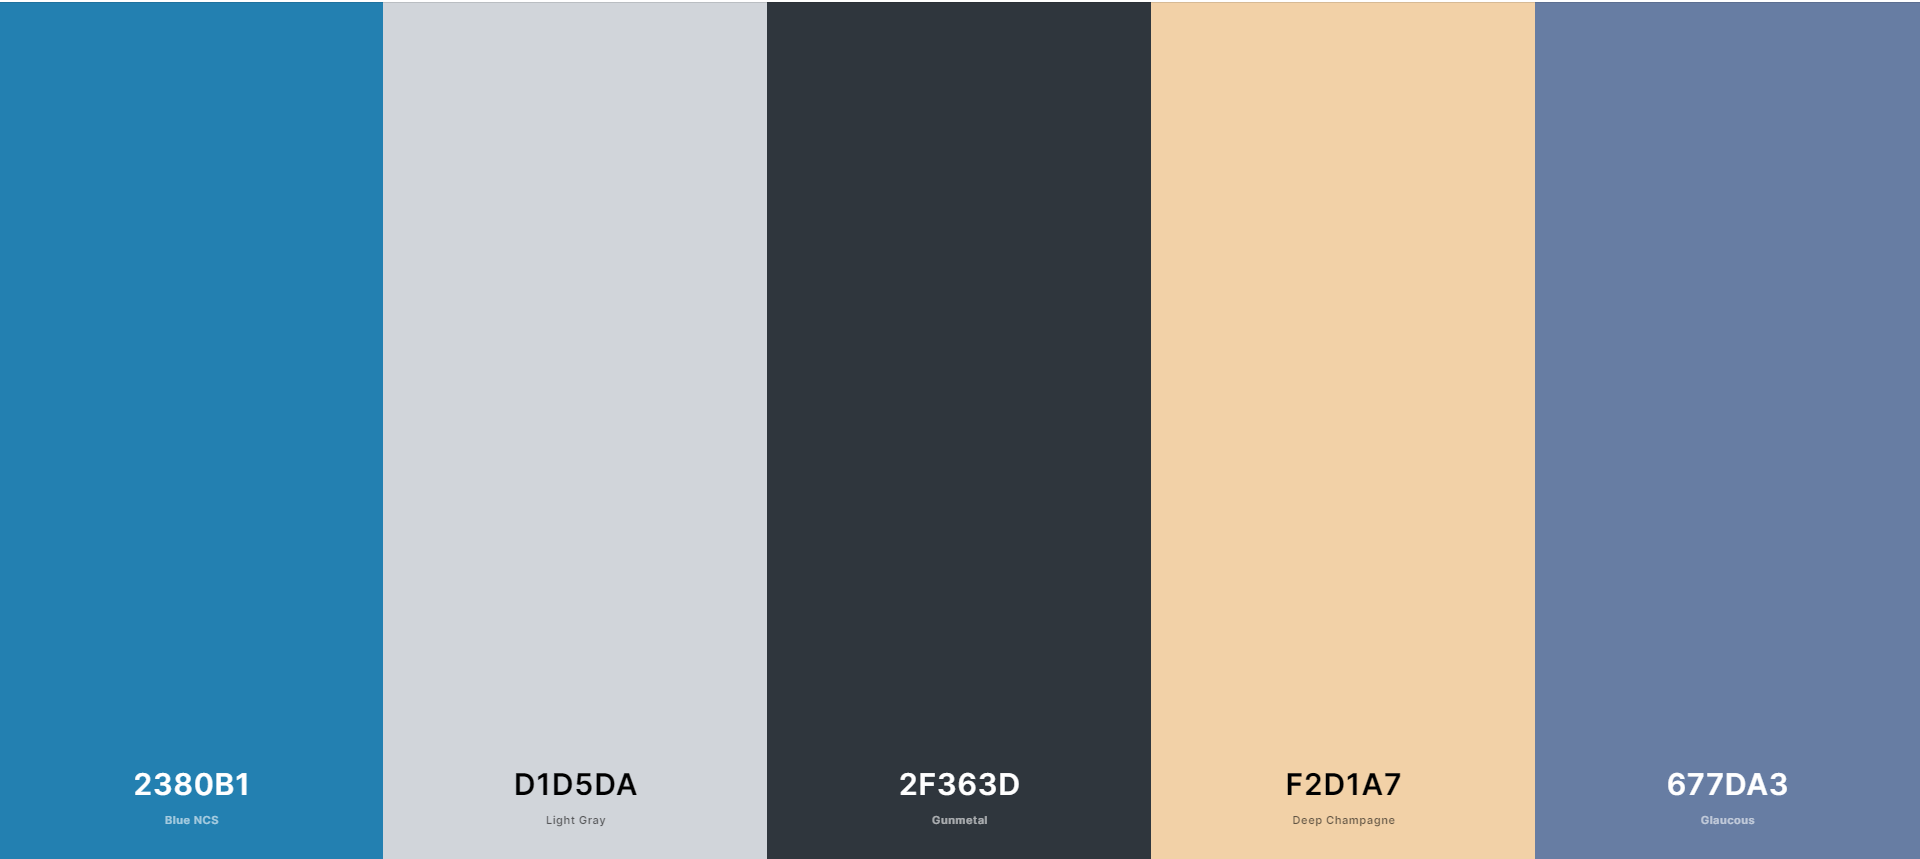
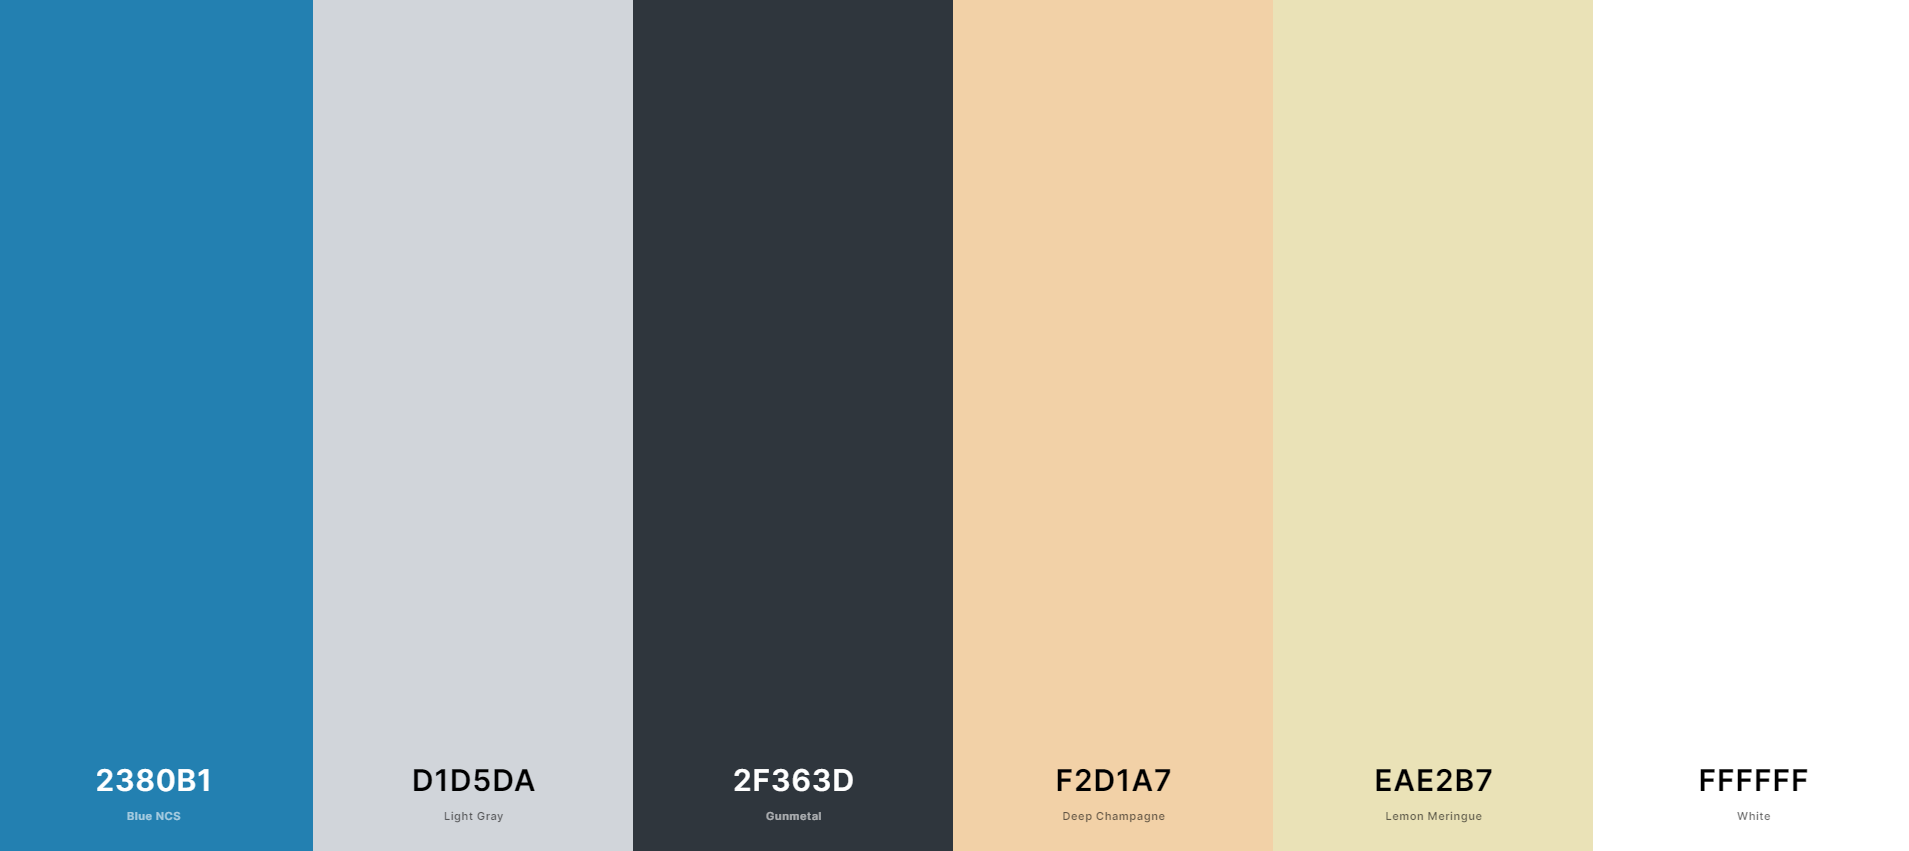
init commit

diff --git a/lesson3/color_scheme.html b/lesson3/color_scheme.html
@@ -33,7 +33,12 @@
   <div class="imgPalette"><img src="img/color_palette.png" alt="logo of the sunny cloud site"></div>
 
   <h3>Color Palette</h3>
-  <p>The site name is "SunnyCloud". Is making reference of some of the states of the weather.</p>
+  <p>#2380B1: This color will be used for the header.<br>
+  #D1D5DA: This color will be used for the main background of the page.<br>
+  #2F363D: This color will be used for headlines and text.<br>
+  #F2D1A7: This color will be used to highlight the links of the mega menu.<br>
+  #EAE2B7: This color will be used for some links on the page.<br>
+  #FFFFFF: This color will be used for some backgrounds and page titles</p>
 
 
   </div> <!-- end of content wrapper -->
